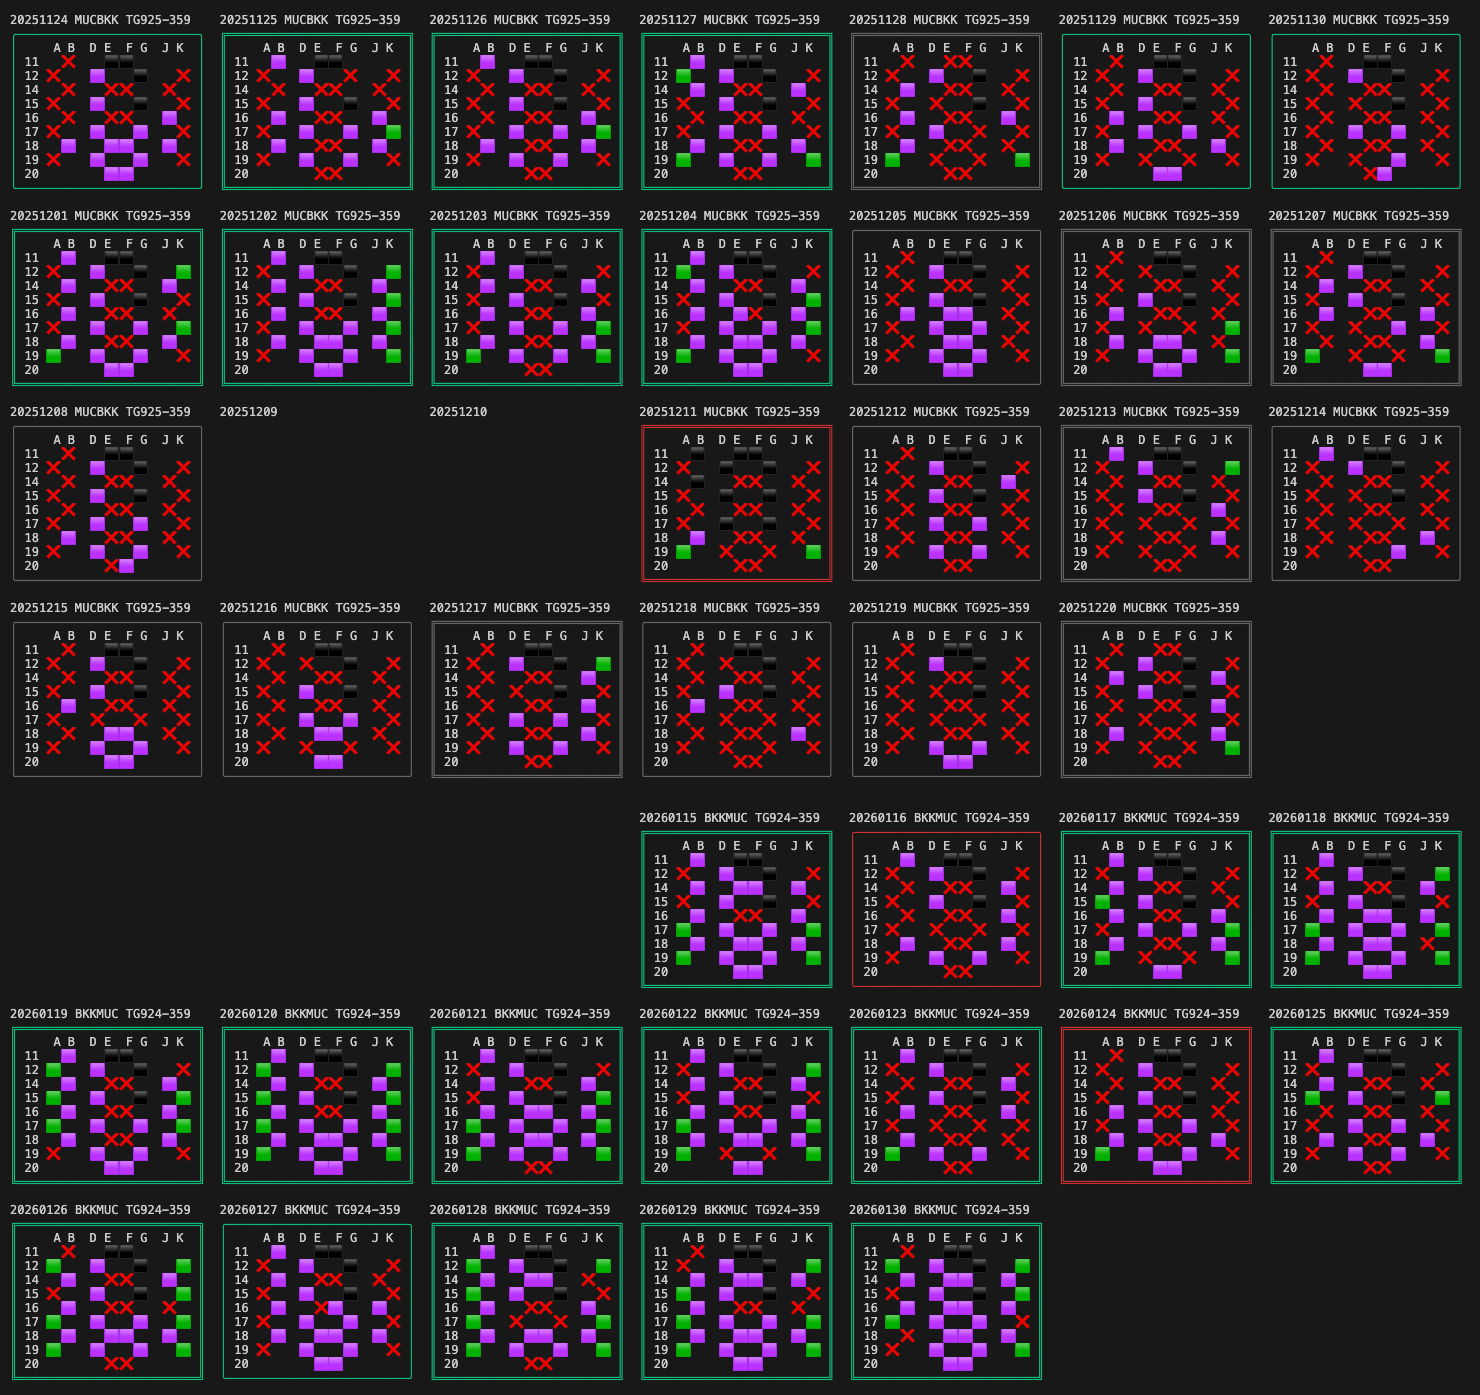
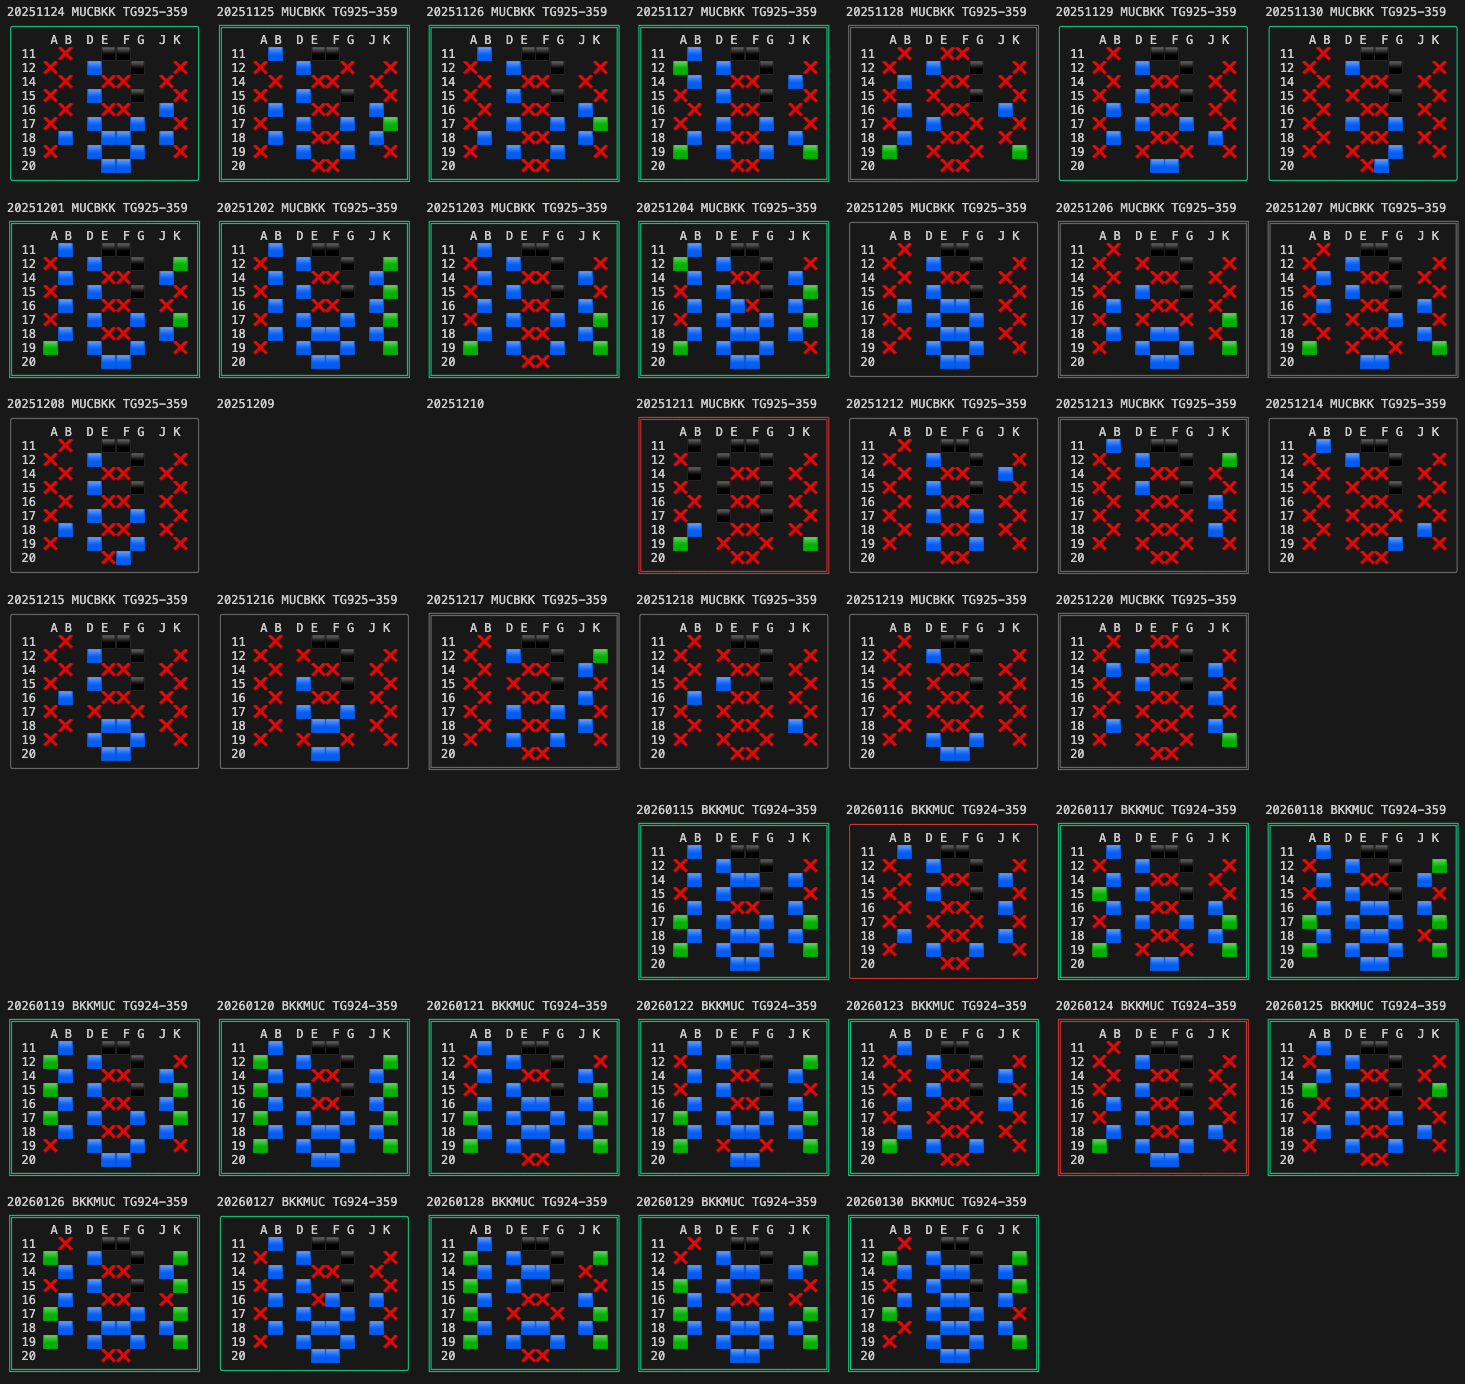
color update

Changed region(s): [[0.0, 0.0, 1.0, 0.9942]]

diff --git a/config.py b/config.py
@@ -62,8 +62,9 @@ BORDER_COLORS = {
     "worst": "fg_red",
 }
 
+# 🟦 / 🟪 / 🟥 / 🟧 / 🟨 / 🟩 / 🟫
 STATUS_SYMBOLS = {
-    "AVAILABLE": "🟪",
+    "AVAILABLE": "🟦",
     "OCCUPIED": "❌",
     "BLOCKED": "⬛",
 }
